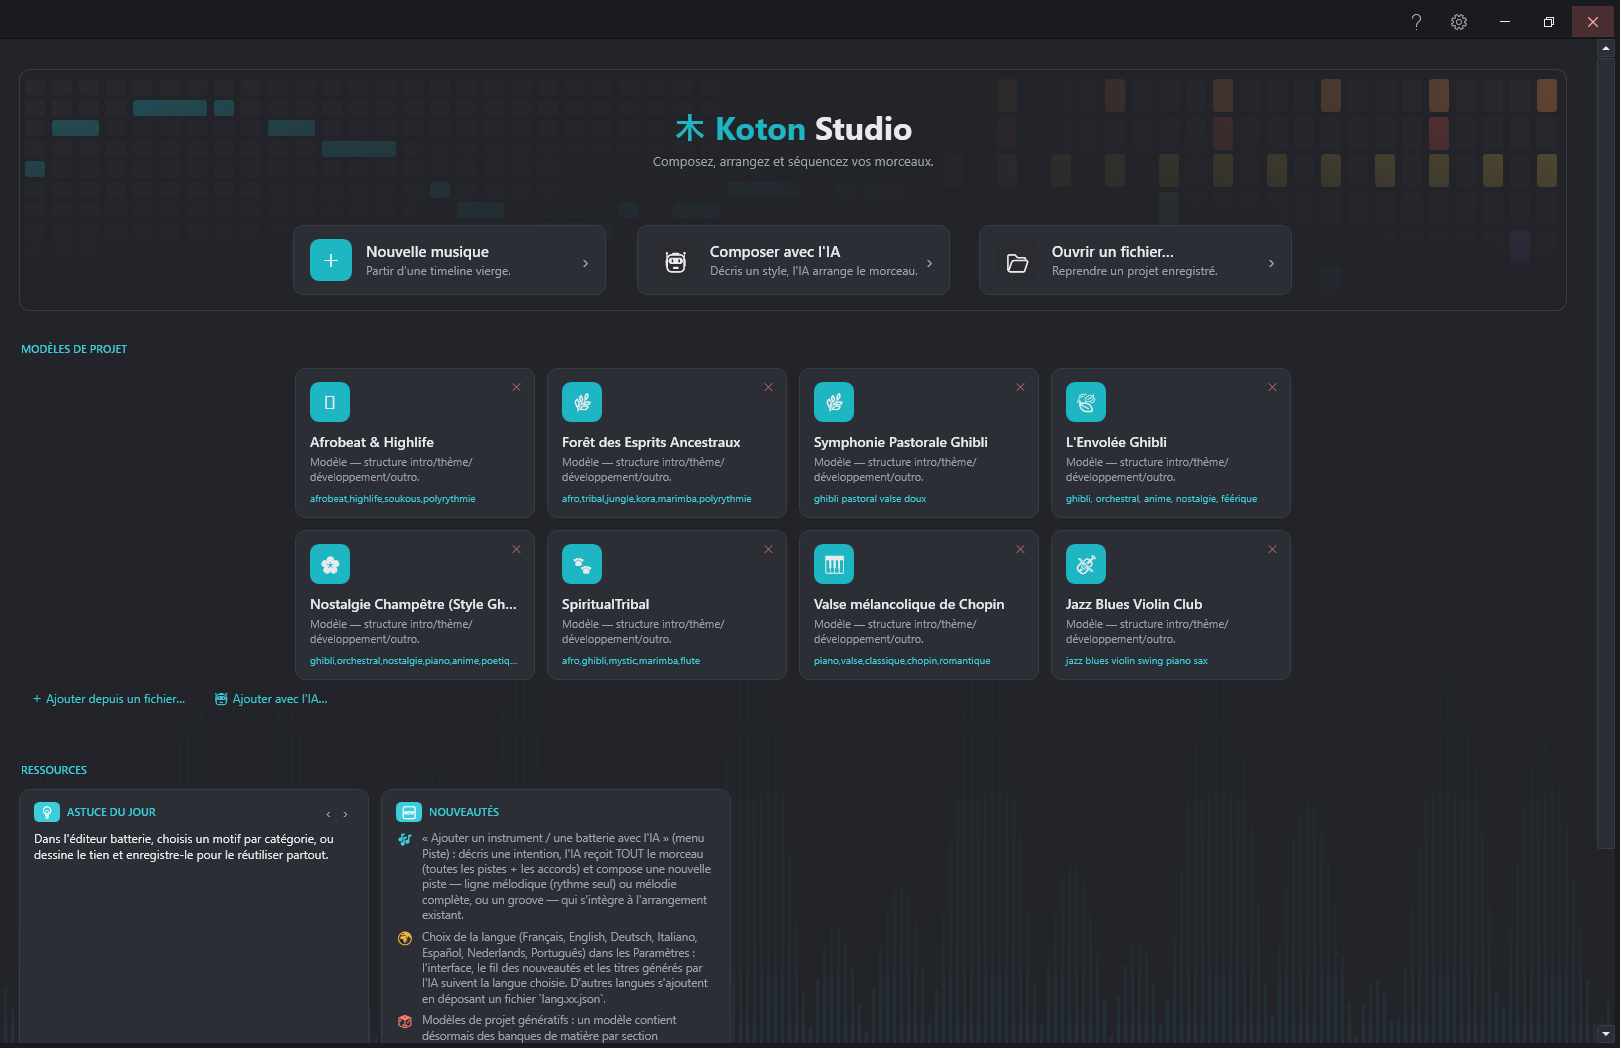
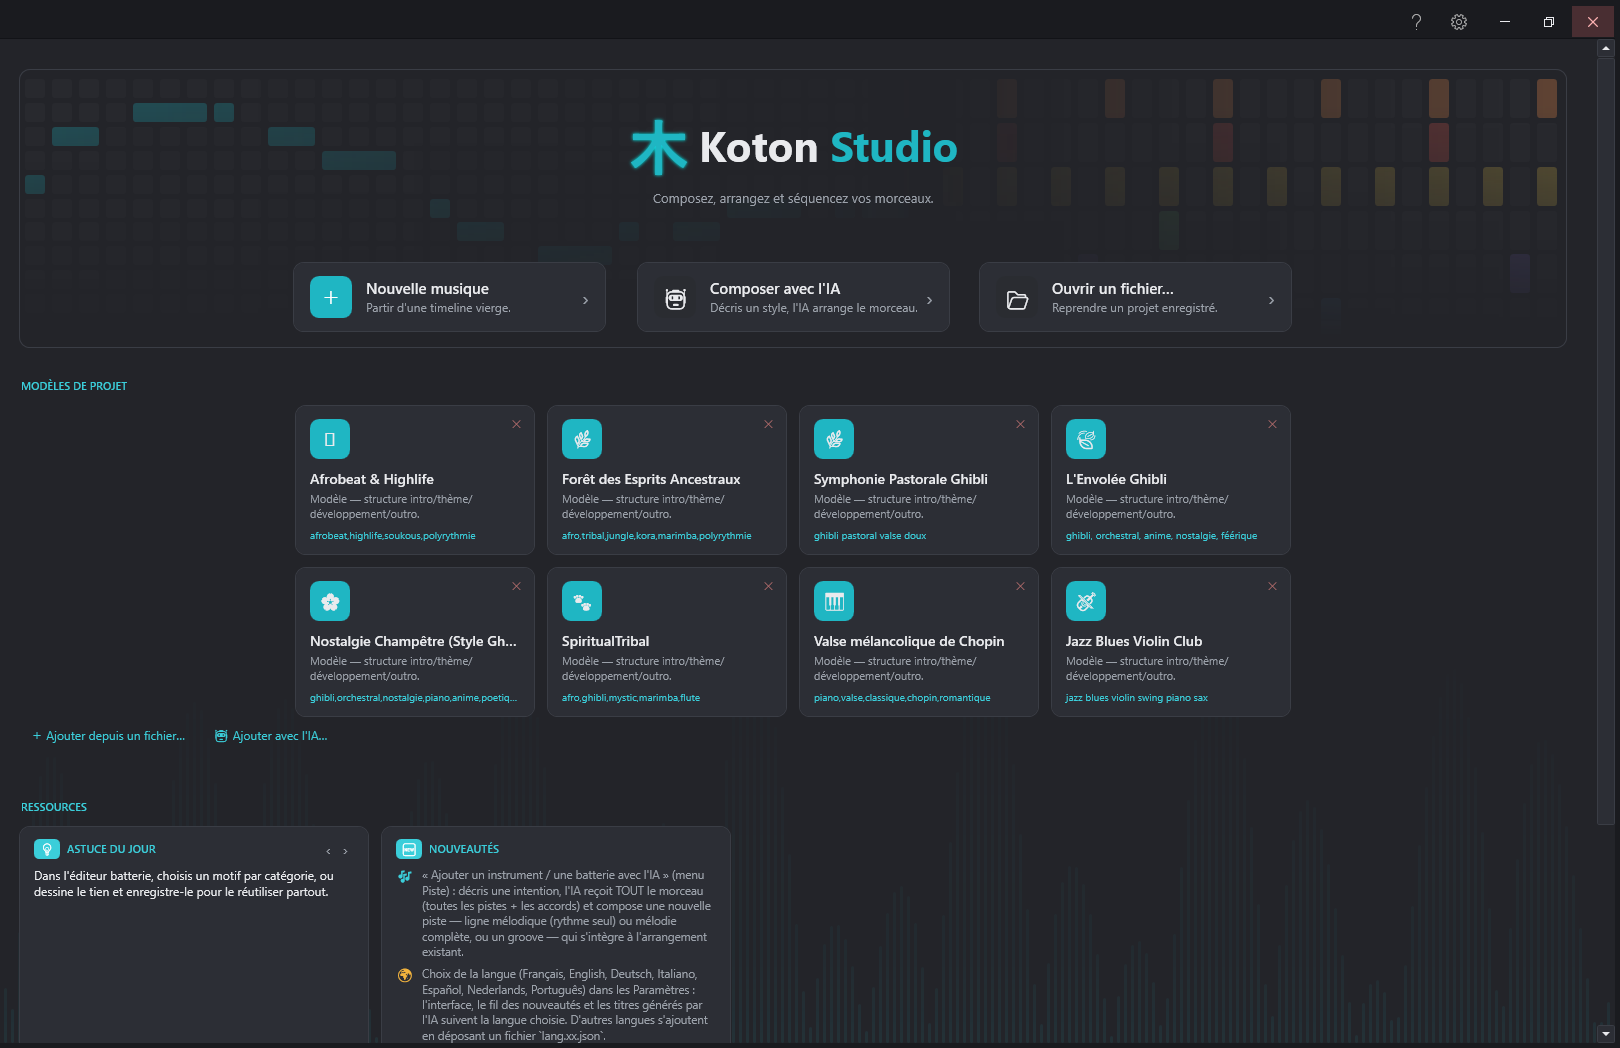
Accueil : wordmark 木 agrandi + halo, "Studio" en accent (coherent site) ; recents repliable
- HomeScreen : 木 agrandi + effet de brillance ; "Koton" clair / "Studio" en accent teal
- Panneau Recents repliable (bouton ‹ pour masquer, › pour reafficher)
- Capture accueil regeneree

diff --git a/MusicTracker/Screens/HomeScreen.xaml b/MusicTracker/Screens/HomeScreen.xaml
@@ -166,7 +166,7 @@
 
     <Grid>
         <Grid.ColumnDefinitions>
-            <ColumnDefinition Width="300"/>
+            <ColumnDefinition x:Name="colRecent" Width="300"/>
             <ColumnDefinition Width="*"/>
         </Grid.ColumnDefinitions>
 
@@ -182,10 +182,14 @@
         </Canvas>
 
         <!-- ===== Left: recent musics ===== -->
-        <Border Grid.Column="0" Background="{StaticResource CommonBackground}" BorderBrush="{StaticResource CommonBorderBrush}" BorderThickness="0,0,1,0">
+        <Border x:Name="recentPanel" Grid.Column="0" Background="{StaticResource CommonBackground}" BorderBrush="{StaticResource CommonBorderBrush}" BorderThickness="0,0,1,0">
             <DockPanel Margin="16,18">
-                <TextBlock DockPanel.Dock="Top" Text="{loc:Tr 'RECENT'}" Foreground="{StaticResource AccentBrightBrush}"
-                           FontSize="11" FontWeight="SemiBold" Margin="4,0,0,10"/>
+                <DockPanel DockPanel.Dock="Top" Margin="0,0,0,10">
+                    <Button DockPanel.Dock="Right" Content="‹" Click="ToggleRecent_Click" Style="{StaticResource ArrowBtn}"
+                            FontSize="15" Padding="6,0" VerticalAlignment="Center" ToolTip="Masquer les récents"/>
+                    <TextBlock Text="{loc:Tr 'RECENT'}" Foreground="{StaticResource AccentBrightBrush}"
+                               FontSize="11" FontWeight="SemiBold" Margin="4,0,0,0" VerticalAlignment="Center"/>
+                </DockPanel>
                 <TextBlock DockPanel.Dock="Bottom" Text="{loc:Tr 'DoubleClickToOpen'}" Foreground="{StaticResource SecondaryForeground}" FontSize="11" Margin="4,8,0,0"/>
                 <Grid>
                     <ListBox x:Name="listRecent" Background="Transparent" BorderThickness="0" Foreground="White"
@@ -231,6 +235,11 @@
                 </Grid>
             </DockPanel>
         </Border>
+        <!-- Reopen tab shown when the recents panel is collapsed -->
+        <Button x:Name="reopenRecent" Grid.Column="1" Panel.ZIndex="10" Content="›" Click="ToggleRecent_Click"
+                Style="{StaticResource ArrowBtn}" FontSize="18" Padding="8,4"
+                HorizontalAlignment="Left" VerticalAlignment="Top" Margin="4,14,0,0"
+                Visibility="Collapsed" ToolTip="Afficher les récents"/>
         <ScrollViewer Grid.Column="1" HorizontalScrollBarVisibility="Disabled" VerticalScrollBarVisibility="Auto">
             <!-- ===== Right: hero + action cards ===== -->
             <Grid Grid.Column="1">
@@ -278,12 +287,13 @@
                             <StackPanel VerticalAlignment="Center" HorizontalAlignment="Center" Width="440" Margin="0,30,0,0">
                                 <!-- Wordmark -->
                                 <StackPanel Orientation="Horizontal" Margin="2,0,0,4" HorizontalAlignment="Center">
-                                    <TextBlock Text="木" Foreground="{StaticResource AccentBrush}" FontSize="30" FontWeight="Bold" VerticalAlignment="Center" Margin="0,0,10,0">
-                                        <TextBlock.BitmapEffect>
-                                            <OuterGlowBitmapEffect GlowColor="Red" GlowSize="100" Opacity="1"/>
-                                        </TextBlock.BitmapEffect>
+                                    <TextBlock Text="木" Foreground="#00FFFF" FontSize="60" FontWeight="Bold" VerticalAlignment="Center" Margin="0,0,0,0" Width="60">
+                                        <TextBlock.Effect>
+                                            <BlurEffect Radius="5" />
+                                        </TextBlock.Effect>
                                     </TextBlock>
-                                    <TextBlock FontSize="32" FontWeight="Bold" VerticalAlignment="Center"><Run Text="Koton" Foreground="{StaticResource AccentBrush}"/><Run Text=" Studio" Foreground="{StaticResource CommonForeground}"/></TextBlock>
+                                    <TextBlock Text="木" Foreground="{StaticResource AccentBrush}" FontSize="60" FontWeight="Bold" VerticalAlignment="Center" Margin="-60,0,10,0"/>
+                                    <TextBlock FontSize="42" FontWeight="Bold" VerticalAlignment="Center"><Run Text="Koton" Foreground="{StaticResource CommonForeground}"/><Run Text=" Studio" Foreground="{StaticResource AccentBrush}"/></TextBlock>
                                 </StackPanel>
                                 <TextBlock Text="{loc:Tr 'ComposeArrangeAndSequenceYourPieces'}" HorizontalAlignment="Center" Foreground="{StaticResource SecondaryForeground}"
                             FontSize="13" Margin="2,0,0,26"/>

diff --git a/MusicTracker/Screens/HomeScreen.xaml.cs b/MusicTracker/Screens/HomeScreen.xaml.cs
@@ -492,5 +492,15 @@ namespace MusicTracker.Screens
             if (listRecent.SelectedItem is RecentEntry entry)
                 OpenRecentRequested?.Invoke(entry);
         }
+
+        // Collapse / expand the left "Récents" panel (also handy for clean screenshots).
+        bool recentCollapsed;
+        private void ToggleRecent_Click(object sender, RoutedEventArgs e)
+        {
+            recentCollapsed = !recentCollapsed;
+            colRecent.Width = new GridLength(recentCollapsed ? 0 : 300);
+            recentPanel.Visibility = recentCollapsed ? Visibility.Collapsed : Visibility.Visible;
+            reopenRecent.Visibility = recentCollapsed ? Visibility.Visible : Visibility.Collapsed;
+        }
     }
 }
